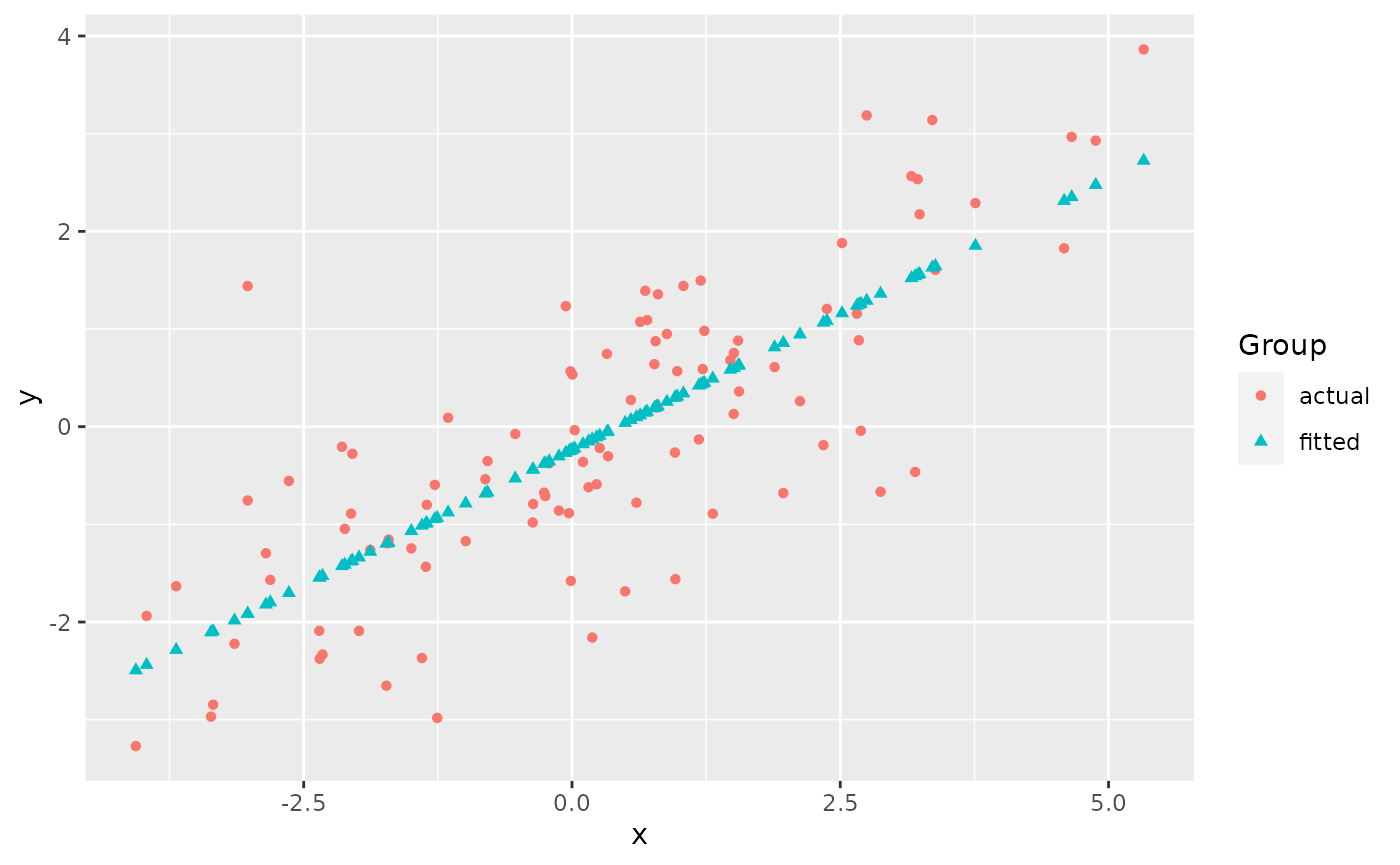
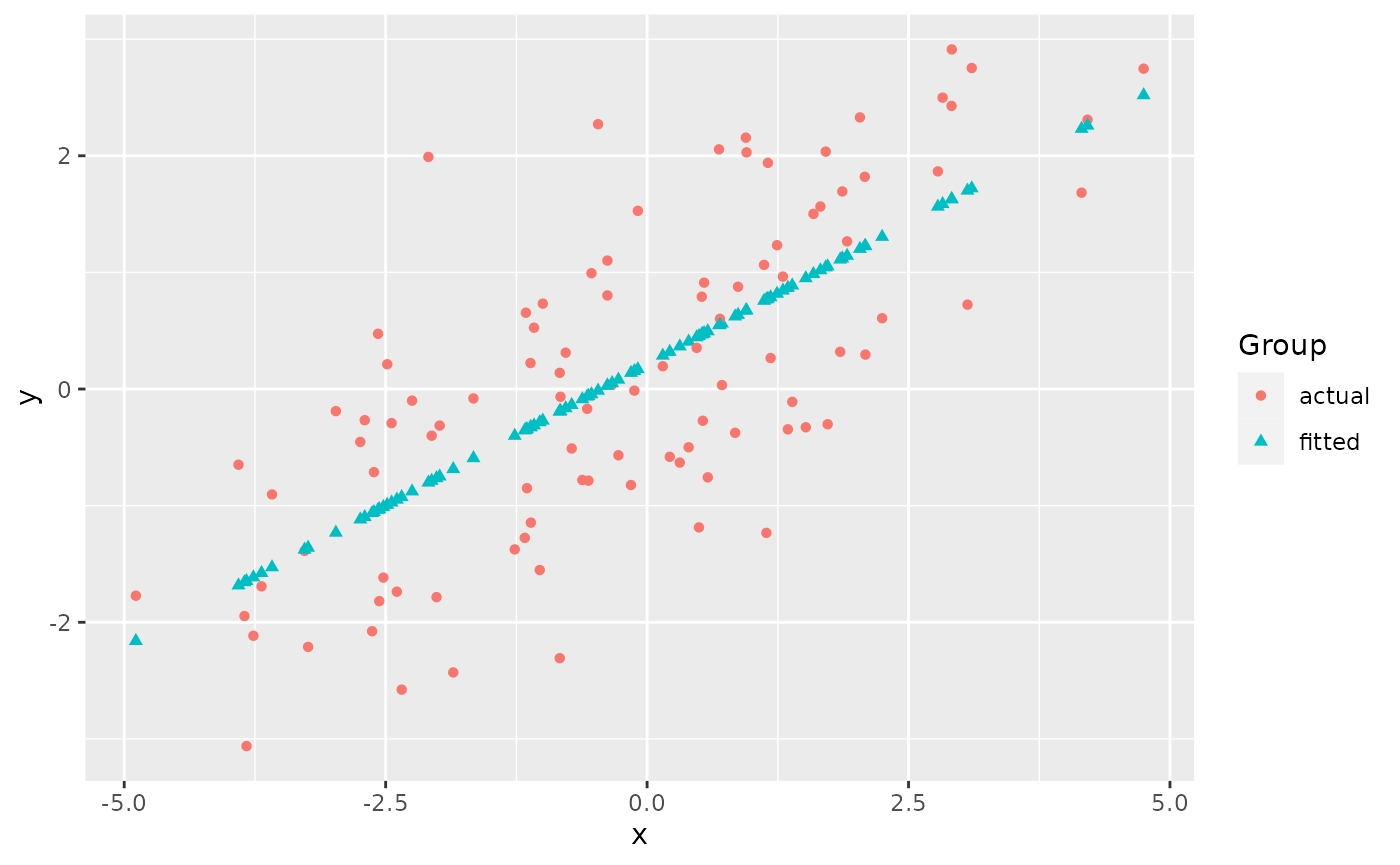
Built site for ggmatplot: 0.1.1@9015426

diff --git a/articles/ggmatplot.html b/articles/ggmatplot.html
@@ -103,7 +103,7 @@
 <span class="va">x</span> <span class="op">&lt;-</span> <span class="fu"><a href="https://rdrr.io/r/base/c.html" class="external-link">c</a></span><span class="op">(</span><span class="fu"><a href="https://rdrr.io/r/stats/Normal.html" class="external-link">rnorm</a></span><span class="op">(</span><span class="fl">100</span>, sd <span class="op">=</span> <span class="fl">2</span><span class="op">)</span><span class="op">)</span>
 
 <span class="fu"><a href="https://rdrr.io/r/utils/head.html" class="external-link">head</a></span><span class="op">(</span><span class="va">x</span><span class="op">)</span>
-<span class="co">#&gt; [1] -2.63818931 -2.11697943 -0.05763663  1.96948148  2.34318566  2.37536526</span>
+<span class="co">#&gt; [1] -2.7425636  2.0818046  4.7481512  3.0636633 -0.1541551 -1.0263135</span>
 
 <span class="co"># matrix z</span>
 <span class="va">y</span> <span class="op">&lt;-</span> <span class="va">x</span> <span class="op">*</span> <span class="fl">0.5</span> <span class="op">+</span> <span class="fu"><a href="https://rdrr.io/r/stats/Normal.html" class="external-link">rnorm</a></span><span class="op">(</span><span class="fl">100</span>, sd <span class="op">=</span> <span class="fl">1</span><span class="op">)</span>
@@ -113,12 +113,12 @@
 
 <span class="fu"><a href="https://rdrr.io/r/utils/head.html" class="external-link">head</a></span><span class="op">(</span><span class="va">z</span><span class="op">)</span>
 <span class="co">#&gt;       actual     fitted</span>
-<span class="co">#&gt; 1 -0.5558864 -1.7019345</span>
-<span class="co">#&gt; 2 -1.0461886 -1.4123336</span>
-<span class="co">#&gt; 3  1.2339440 -0.2680968</span>
-<span class="co">#&gt; 4 -0.6796244  0.8582350</span>
-<span class="co">#&gt; 5 -0.1886317  1.0658770</span>
-<span class="co">#&gt; 6  1.2064536  1.0837571</span></code></pre></div>
+<span class="co">#&gt; 1 -0.4533908 -1.1182002</span>
+<span class="co">#&gt; 2  1.8198353  1.2247128</span>
+<span class="co">#&gt; 3  2.7468975  2.5196011</span>
+<span class="co">#&gt; 4  0.7236737  1.7015440</span>
+<span class="co">#&gt; 5 -0.8231752  0.1388382</span>
+<span class="co">#&gt; 6 -1.5520399 -0.2847181</span></code></pre></div>
 <p><code>ggmatplot</code> plots vector <code>x</code> against each column of matrix <code>z</code> using the default <code>plot_type = "point"</code>. This will be represented on the resulting plot as two groups, identified using different shapes and colors.</p>
 <div class="sourceCode" id="cb2"><pre class="downlit sourceCode r">
 <code class="sourceCode R"><span class="kw"><a href="https://rdrr.io/r/base/library.html" class="external-link">library</a></span><span class="op">(</span><span class="va"><a href="https://github.com/xuan-liang/ggmatplot" class="external-link">ggmatplot</a></span><span class="op">)</span>
